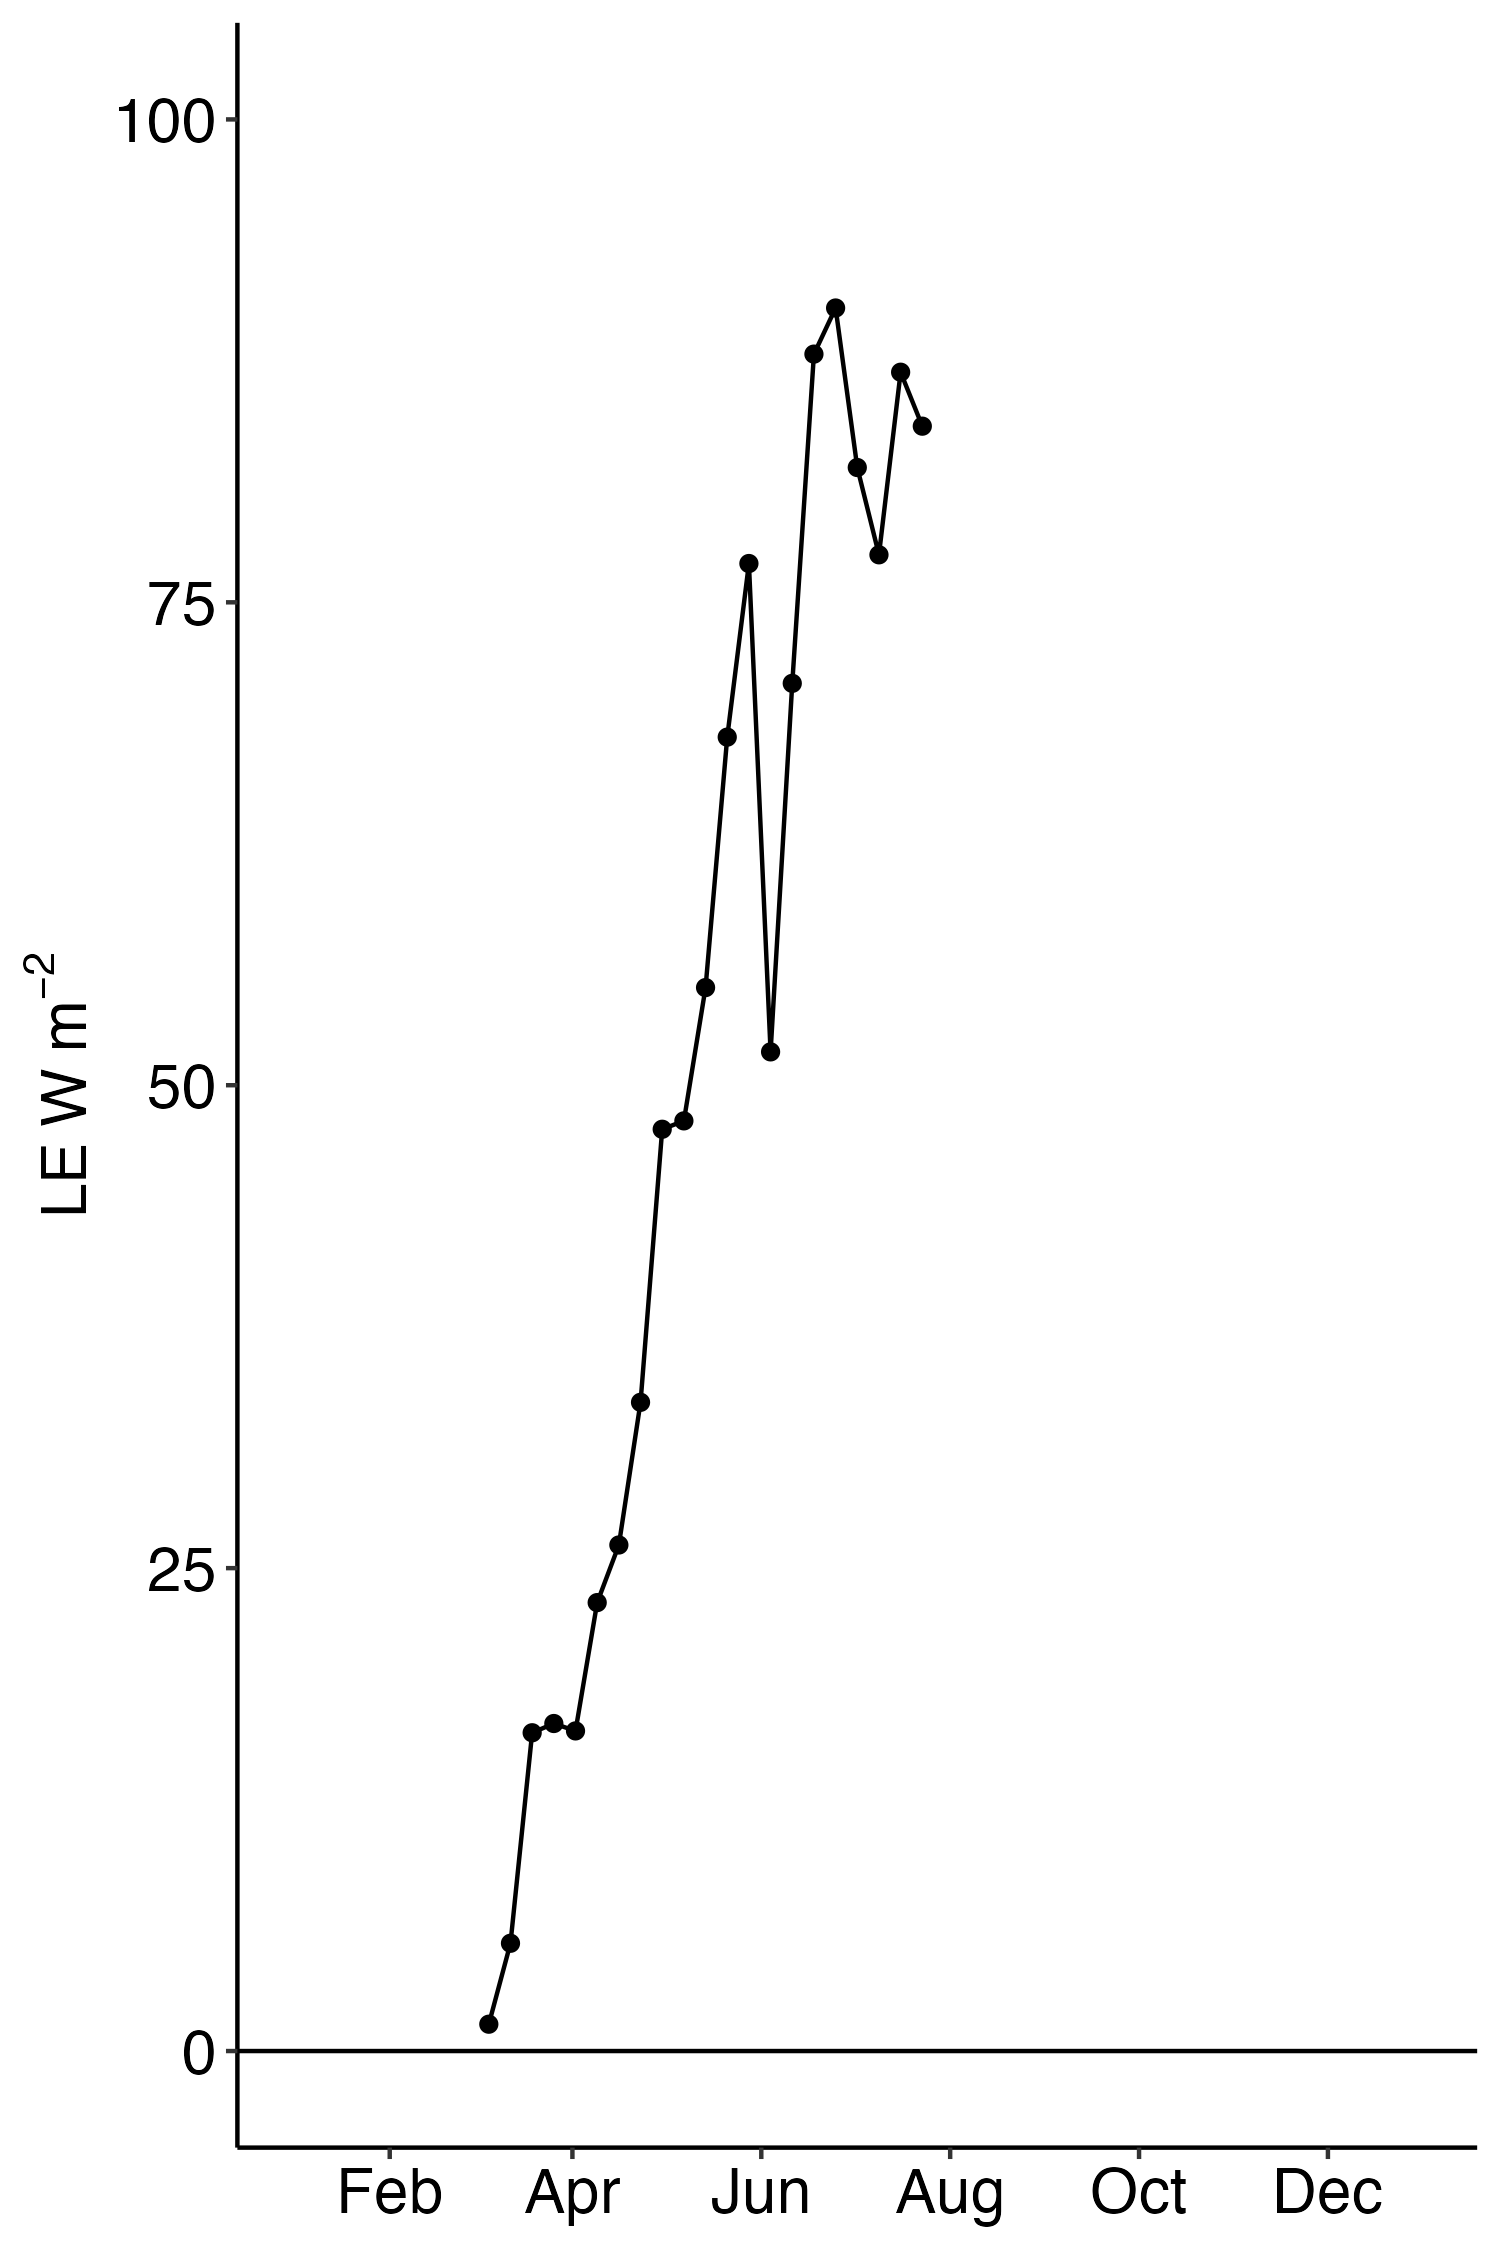
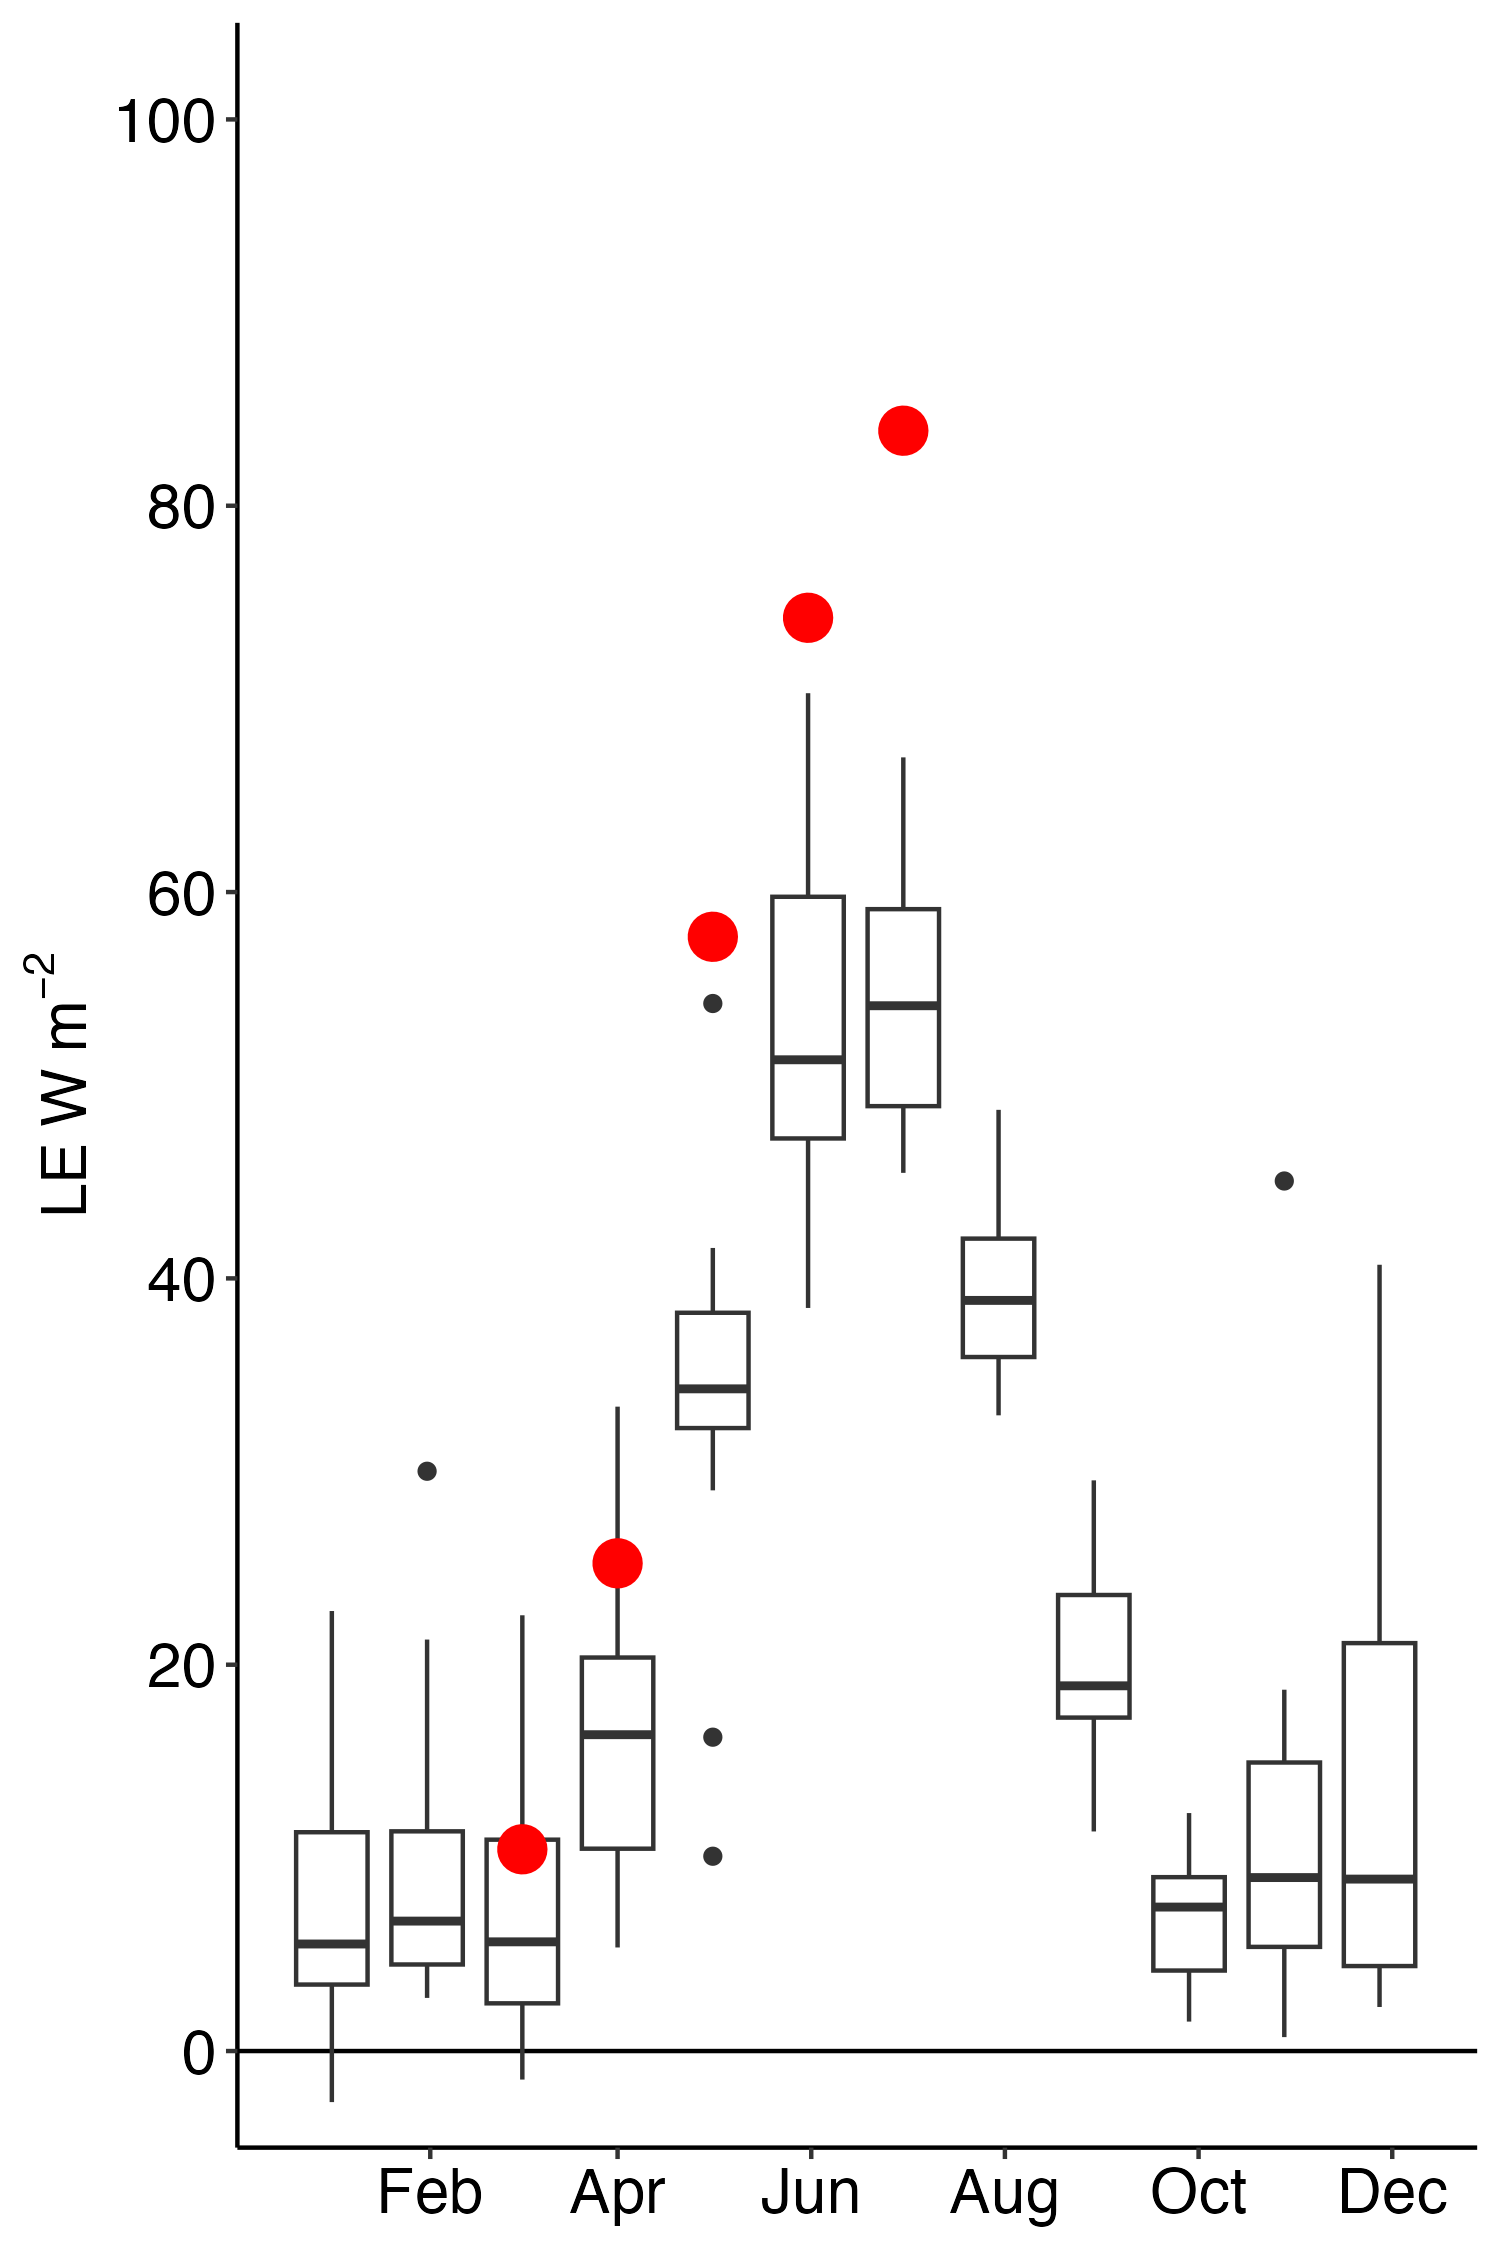
updated US-EML plots

diff --git a/index.md b/index.md
@@ -17,7 +17,7 @@ Welcome to the AWARE test site dashboard. Below are visualizations of measured a
   <img src="/NEE_daily_timeseries.png" alt="CO2 timeseries" />
 </div>
 
-*Measured and gap-filled half-hourly **CO₂ (NEE)** flux data.*
+Measured (left) and gap-filled (middle) half-hourly **CO₂ (NEE)** flux data. Weekly average **CO₂ (NEE)** fluxes (right).
 
 ---
 
@@ -29,7 +29,7 @@ Welcome to the AWARE test site dashboard. Below are visualizations of measured a
     <img src="/FCH4_daily_timeseries.png" alt="CH4 timeseries" />
 </div>
 
-*Measured and gap-filled half-hourly **CH₄** flux data.*
+Measured (left) and gap-filled (middle) half-hourly **CH₄ (FCH4)** flux data. Weekly average **CH₄ (FCH4)** fluxes (right).
 
 ---
 
@@ -41,7 +41,7 @@ Welcome to the AWARE test site dashboard. Below are visualizations of measured a
   <img src="/LE_daily_timeseries.png" alt="LE timeseries" />
 </div>
 
-*Measured and gap-filled half-hourly **latent heat (LE)** flux data.*
+Measured (left) and gap-filled (middle) half-hourly **latent heat (LE)** flux data. Weekly average **latent heat (LE)** fluxes (right).
 
 ---
 
